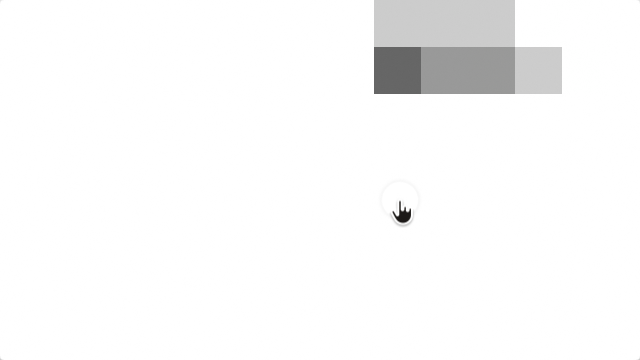
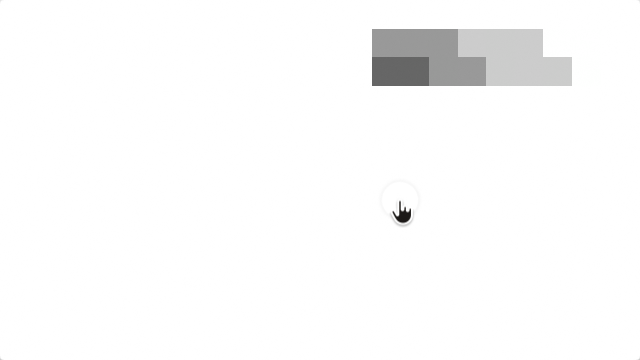
Tune mosaic cell size so a field reads as cells

Changed region(s): [[0.5625, 0.0, 0.9062, 0.275]]

diff --git a/Tests/LumenTests/FrontendVisualTests.swift b/Tests/LumenTests/FrontendVisualTests.swift
@@ -338,6 +338,49 @@ private func diff(_ a: CVPixelBuffer, _ b: CVPixelBuffer, _ body: (Int, Int, Int
     #expect(Double(step) < 0.5 * Double(peak), "ripple edge is hard: step \(step) of peak \(peak)")
 }
 
+@Test func mosaicReadsAsACrispMosaicOnARealisticField() async throws {
+    // A realistic identity field: a row of text-like glyph blocks inside a
+    // light panel. The mosaic must read as a mosaic — many small crisp cells —
+    // not as one slab and not as a soft blur.
+    var f = try await makeFixture(w: 1280, h: 720) { ctx, _, h in
+        ctx.setFillColor(CGColor(gray: 0.97, alpha: 1))
+        ctx.fill(CGRect(x: 0, y: 0, width: 1280, height: h))
+        ctx.setFillColor(CGColor(gray: 0.22, alpha: 1))
+        let top = CGFloat(300), fieldH: CGFloat = 34
+        let y = CGFloat(h) - top - fieldH
+        var x = CGFloat(360)
+        while x < 640 {
+            let w = CGFloat(9 + (Int(x) % 3) * 5)
+            ctx.fill(CGRect(x: x, y: y, width: w, height: fieldH))
+            x += w + CGFloat(7 + (Int(x) % 4) * 3)
+        }
+    }
+    try FileManager.default.createDirectory(at: out, withIntermediateDirectories: true)
+    let region = Mask(start: 0, end: 1, mode: .blur,
+                      keys: [MaskKey(t: 0, x: 360, y: 300, w: 280, h: 34)],
+                      origin: .auto, approved: true, category: "email", padding: 6)
+    f.timeline.overlays.masks = [region]
+    let masked = try await FrameImage.render(renderer: f.renderer, session: f.session, timeline: f.timeline,
+                                             t: 0.25, canvas: SIMD2(1280, 720))
+    try FrameImage.writePNG(masked, to: out.appendingPathComponent("mosaic-email.png"))
+
+    // The field must be covered by cells, and the cells must be small enough
+    // that the row still reads as many blocks: about one cell per 24 px.
+    let cell = PrivacyMaskGeometry.cell(boxHeight: 34 + 12)
+    #expect(cell <= 26, "mosaic cell \(cell) is too coarse for a single-line field")
+    var runs = 1
+    var last: RGBA8?
+    pixels(masked) { base, row, _ in
+        for x in 360..<640 {
+            let c = sample(base, row, x, 317)
+            if let l = last, abs(Int(l.r) - Int(c.r)) > 2 || abs(Int(l.g) - Int(c.g)) > 2
+                || abs(Int(l.b) - Int(c.b)) > 2 { runs += 1 }
+            last = c
+        }
+    }
+    #expect(runs >= 6, "mosaic is too coarse: \(runs) runs across 280 px")
+}
+
 @Test func mosaicCoversItsFieldWithCrispSourceCells() async throws {
     var f = try await makeFixture { ctx, _, h in
         // A left-to-right ramp inside the mask field. Identity mosaic must
@@ -375,7 +418,7 @@ private func diff(_ a: CVPixelBuffer, _ b: CVPixelBuffer, _ body: (Int, Int, Int
     // change outside it, and the field itself must be fully covered.
     let pad: Float = 6
     let padded = SIMD4<Float>(380 - pad, 40 - pad, 220 + 2 * pad, 40 + 2 * pad)
-    let treated = PrivacyMaskGeometry.mosaicRegion(padded, textHeight: padded.w, isSecret: false)
+    let treated = PrivacyMaskGeometry.mosaicRegion(padded, cell: PrivacyMaskGeometry.cell(boxHeight: padded.w))
     diff(clean, masked) { x, y, d in
         let inField = x >= 380 && x < 600 && y >= 40 && y < 80
         let near = Float(x) >= treated.x && Float(x) < treated.x + treated.z
@@ -386,8 +429,11 @@ private func diff(_ a: CVPixelBuffer, _ b: CVPixelBuffer, _ body: (Int, Int, Int
     #expect(inside > 10_000, "mask did not cover the field: \(inside)")
 
     // Each source-space cell is one flat colour. A row across the field may
-    // only change at cell edges: 220 / 36 px is about seven cells. The
-    // 8-bit write dithers flat cells by 1 LSB, so equal means within 2.
+    // only change at cell edges, so the number of runs is bounded by the
+    // number of cells the row crosses. The 8-bit write dithers flat cells by
+    // 1 LSB, so equal means within 2.
+    let cell = PrivacyMaskGeometry.cell(boxHeight: padded.w)
+    let cells = Int((216.0 / Double(cell)).rounded(.up))
     func isNew(_ a: RGBA8, _ b: RGBA8) -> Bool {
         abs(Int(a.r) - Int(b.r)) > 2 || abs(Int(a.g) - Int(b.g)) > 2 || abs(Int(a.b) - Int(b.b)) > 2
     }
@@ -400,7 +446,7 @@ private func diff(_ a: CVPixelBuffer, _ b: CVPixelBuffer, _ body: (Int, Int, Int
             last = c
         }
     }
-    #expect(runs <= 9, "identity mosaic is not made of crisp cells: \(runs) runs")
+    #expect(runs <= cells + 1, "identity mosaic is not made of crisp cells: \(runs) runs over \(cells) cells")
 
     var secretRuns = 1
     var lastSecret: RGBA8?
@@ -411,5 +457,5 @@ private func diff(_ a: CVPixelBuffer, _ b: CVPixelBuffer, _ body: (Int, Int, Int
             lastSecret = c
         }
     }
-    #expect(secretRuns <= 7, "secret mosaic is not made of crisp cells: \(secretRuns) runs")
+    #expect(secretRuns <= cells + 1, "secret mosaic is not made of crisp cells: \(secretRuns) runs over \(cells) cells")
 }

diff --git a/Sources/LumenRender/PrivacyMaskGeometry.swift b/Sources/LumenRender/PrivacyMaskGeometry.swift
@@ -18,20 +18,23 @@ public enum PrivacyMaskGeometry {
         return SIMD4(Float(a.x), Float(a.y), Float(b.x - a.x), Float(b.y - a.y))
     }
 
-    /// Cell edge in source pixels. Roughly one text height: large enough that
-    /// no glyph survives, small enough that the result still reads as a mosaic
-    /// rather than a slab. Secrets use a larger cell because a short secret
-    /// (four digits) leaves too much shape in a small one.
-    public static func cell(textHeight: Float, isSecret: Bool) -> Float {
-        max(8, max(textHeight, 1) * (isSecret ? 1.25 : 0.9))
+    /// Cell edge in source pixels.
+    ///
+    /// The identity mosaic and the secret mosaic must look like the same
+    /// mosaic — a secret differs only in where its colour comes from, never in
+    /// its size — so both use the same grid. Tuned by eye on a realistic
+    /// single-line field: roughly half the masked box height, so a row still
+    /// reads as many crisp cells instead of a slab and every glyph is
+    /// averaged away rather than outlined.
+    public static func cell(boxHeight: Float) -> Float {
+        max(8, max(boxHeight, 1) * 0.55)
     }
 
     /// Snap the treated rect outward to whole cells. The quad edge must land
     /// on a cell boundary: a partial cell leaves an unmasked sliver as soon
     /// as the camera zooms, and a soft edge would blend the glyphs back in.
-    public static func mosaicRegion(_ rect: SIMD4<Float>, textHeight: Float,
-                                    isSecret: Bool) -> SIMD4<Float> {
-        let c = cell(textHeight: textHeight, isSecret: isSecret)
+    public static func mosaicRegion(_ rect: SIMD4<Float>, cell: Float) -> SIMD4<Float> {
+        let c = max(cell, 1)
         let x0 = (rect.x / c).rounded(.down) * c
         let y0 = (rect.y / c).rounded(.down) * c
         let x1 = ((rect.x + rect.z) / c).rounded(.up) * c

diff --git a/Sources/LumenRender/Renderer.swift b/Sources/LumenRender/Renderer.swift
@@ -596,12 +596,12 @@ public final class Renderer: @unchecked Sendable {
                 let secretCats: Set<String> = ["card", "apiKey", "jwt", "privateKey", "envSecret", "entropy"]
                 let isSecret = secretCats.contains(mask.category ?? "")
                 let textH = Float(max(mask.rect.w, 1))
-                let cell = PrivacyMaskGeometry.cell(textHeight: textH, isSecret: isSecret)
+                let cell = PrivacyMaskGeometry.cell(boxHeight: textH)
                 // The quad edge is a cell boundary: snap the treated region
                 // outward so no partial cell or unmasked sliver survives the
                 // camera projection. The grid itself stays anchored to source
                 // pixels in the shader, so cells never swim when content moves.
-                let region = PrivacyMaskGeometry.mosaicRegion(mask.rect, textHeight: textH, isSecret: isSecret)
+                let region = PrivacyMaskGeometry.mosaicRegion(mask.rect, cell: cell)
                 guard let projected = PrivacyMaskGeometry.canvasRect(region, geometry: g,
                                                                       camera: cam, scale: sc),
                       projected.z > 0.2, projected.w > 0.2 else { continue }
